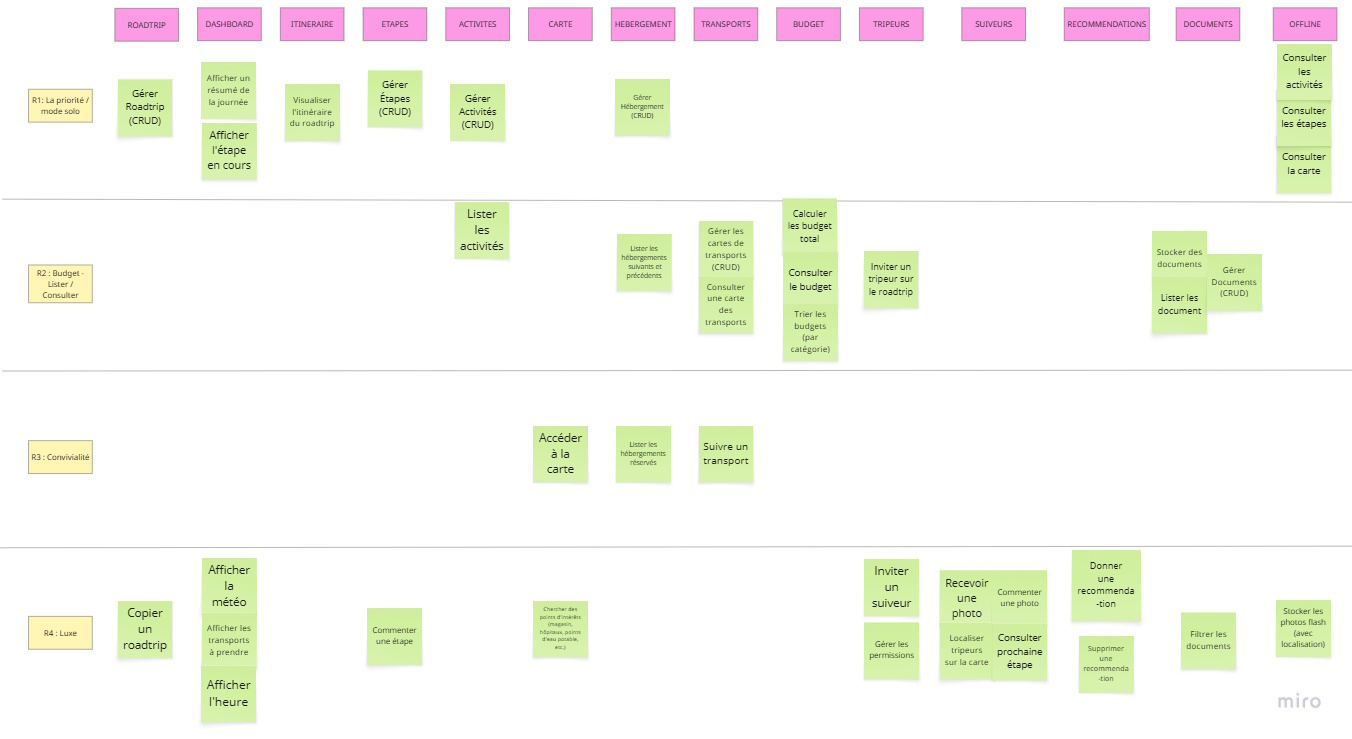
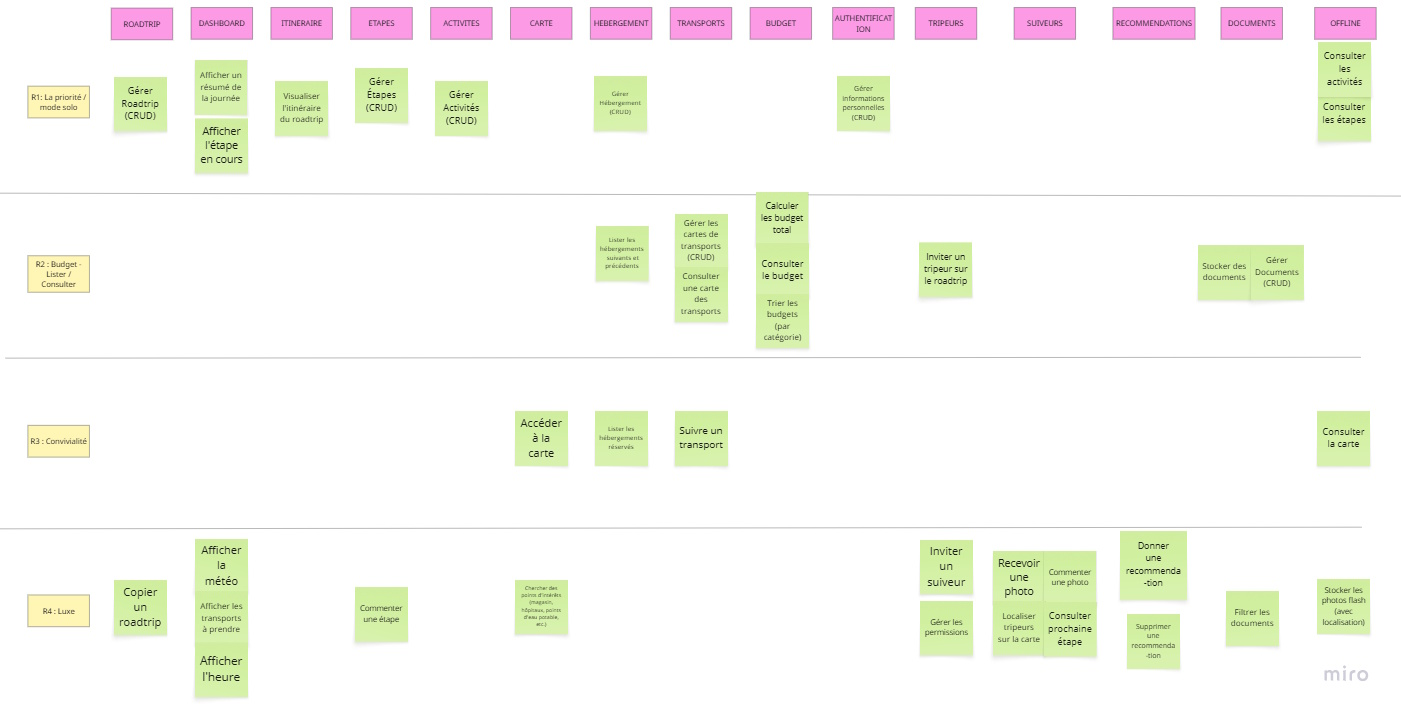
docs: modify lists and add authentification

diff --git a/docs/story-mapping.md b/docs/story-mapping.md
@@ -7,6 +7,7 @@ L'axe vertical, lui, représente les priorités des fonctionnalités pour un mê
 ![story mapping](Images/story_mapping.jpg)  
 
 ## Modèle modifié à l'aide de l'IA
-L'IA nous a indiqué qu'il est plus propre de regrouper toutes les tâches liées à la gestion (créer, lire, modifier, supprimer) dans un post-it et d'indiquer "CRUD" pour signifier qu'il est bien question de gestion. C'est pourquoi, toutes les fonctionnalités de modification ou lecture qui étaient présentes dans R3, R4 ont été regroupées pour la majorité dans R1, et dans R2 pour les catégories moins prioritaires comme le transport ou les documents.  
+L'IA nous a indiqué qu'il est plus propre de regrouper toutes les tâches liées à la gestion (créer, lire, modifier, supprimer) dans un post-it et d'indiquer "CRUD" pour signifier qu'il est bien question de gestion Lister fait aussi partie de CRUD, car c'est une façon d'afficher les données et donc de les lire. C'est pourquoi, toutes les fonctionnalités de modification ou lecture qui étaient présentes dans R3, R4 ont été regroupées pour la majorité dans R1, et dans R2 pour les catégories moins prioritaires comme le transport ou les documents.  
+L'IA nous a aussi suggéré l'ajout de la gestion d'authentification, pour que les utilisateurs puissent créer un compte et retrouver leurs données plus facilement.
 
 ![story mapping ia](Images/story_mapping_ai_modified.jpg)
